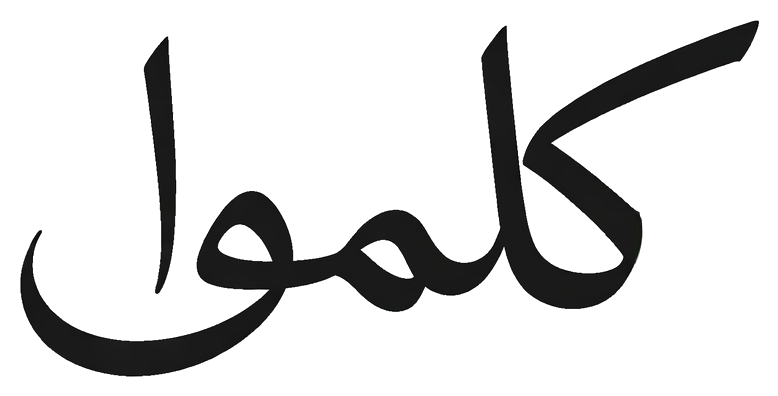
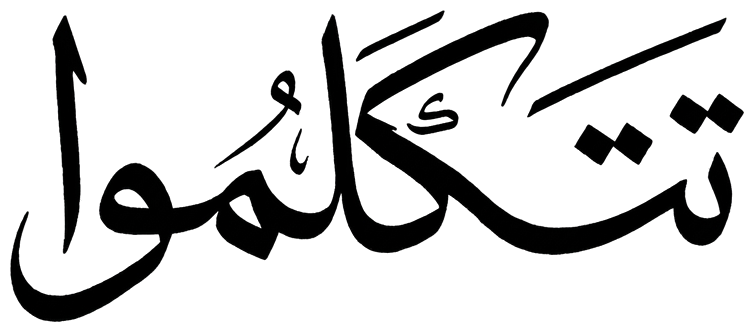
Green dashed separators + new wordmark calligraphy
Header/footer separators: sand #EDE0C0 → green #0F9D6E dashed.
Wordmark: replace old كلموا with new تكلموا calligraphy (753x331,
transparent bg extracted from uploaded PNG).

Claude-Session: https://claude.ai/code/session_01M7ZbWy4nDyuvYjCNXiN6hz

diff --git a/src/app/(public)/layout.tsx b/src/app/(public)/layout.tsx
@@ -5,7 +5,7 @@ export default function PublicLayout({ children }: { children: React.ReactNode }
     <>
       <header
         className="sticky top-0 z-30 bg-white"
-        style={{ borderBottom: "2px dashed #EDE0C0" }}
+        style={{ borderBottom: "2px dashed #0F9D6E" }}
       >
         <div className="mx-auto flex max-w-5xl items-center gap-6 px-4 py-3">
           {/* Logo */}
@@ -40,7 +40,7 @@ export default function PublicLayout({ children }: { children: React.ReactNode }
             <Link
               href="/login"
               className="rounded-full font-semibold text-sm border"
-              style={{ padding: "8px 16px", color: "#1C1A17", background: "#EDE0C0", border: "1.5px solid #fff", outline: "1.5px dashed #fff", outlineOffset: "-4px" }}
+              style={{ padding: "8px 16px", color: "#1C1A17", background: "#0F9D6E", border: "1.5px solid #fff", outline: "1.5px dashed #fff", outlineOffset: "-4px" }}
             >
               Mon espace
             </Link>
@@ -52,7 +52,7 @@ export default function PublicLayout({ children }: { children: React.ReactNode }
 
       <footer
         className="py-8 px-4"
-        style={{ borderTop: "2px dashed #EDE0C0", background: "#ffffff" }}
+        style={{ borderTop: "2px dashed #0F9D6E", background: "#ffffff" }}
       >
         <div className="mx-auto max-w-5xl flex flex-col sm:flex-row items-center justify-between gap-4">
           <div className="flex items-center gap-2">